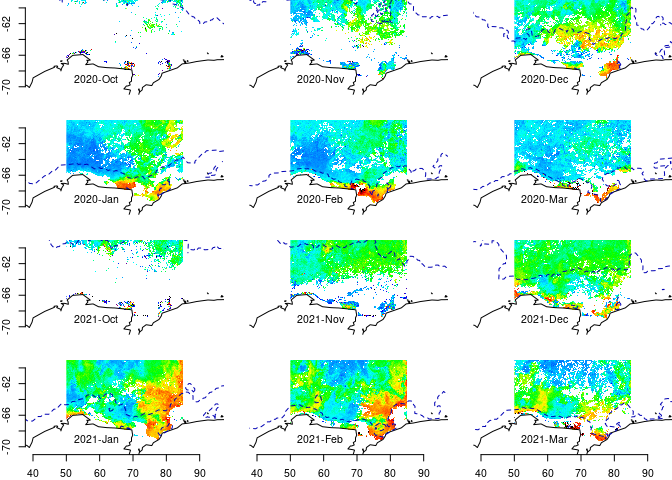
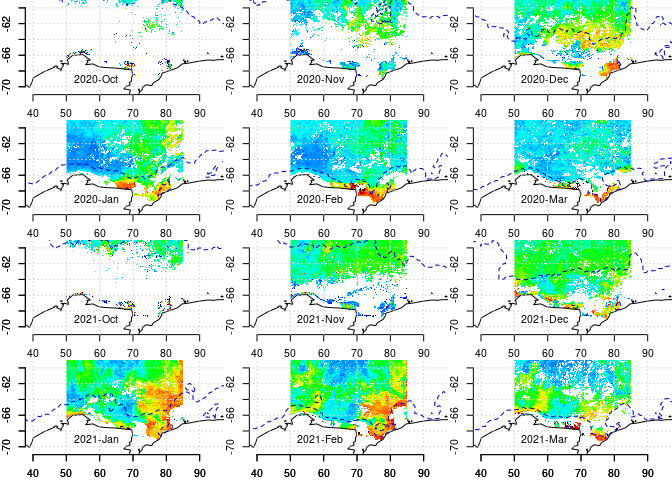
read

diff --git a/README.md b/README.md
@@ -51,18 +51,46 @@ icedata <- memoise::memoize(function(.x) terra::rast(sds::nsidc_seaice(.x)))
 
 pal <- palr::chl_pal(palette = T)
 
+#par(mfrow = n2mfrow(length(dates)), mar = c(2, 2, 0, 0))
+
+for (i in seq_along(dates)) {
+  ice <- icedata(dates[i])
+  cl <- sf::st_as_sf(terra::project(terra::crop(terra::as.contour(ice, levels = 15), terra::ext(0, 5e6, -5e6, 5e6)), "OGC:CRS84"))
+  file <- sprintf("chlor_a_%s.tif", format(dates[i], "%Y-%m"))
+d <- vapour::gdal_raster_data(file)
+  png(gsub("tif$", "png", file), width = 840, height = 840)
+  im <- matrix(palr::image_pal(d[[1]], col = pal$cols, breaks = pal$breaks), attr(d, "dimension")[2], byrow = TRUE)
+  ximage::ximage(im, attr(d, "extent"), asp = 1/cos(mean(ex[3:4]) * pi/180), col = pal$cols, breaks = pal$breaks, axes = F)
+  maps::map(add = TRUE)
+  axis(1)
+  axis(2)
+  grid()
+  plot(cl, add = T, lty = 2)
+  if (i >= 10) axis(1)
+  if (i %in% c(1, 4, 7, 10) ) axis(2)
+  text(59, -69, format(dates[i], "%Y-%b"))
+  dev.off()
+}
+
+
 par(mfrow = n2mfrow(length(dates)), mar = c(2, 2, 0, 0))
 
 for (i in seq_along(dates)) {
   ice <- icedata(dates[i])
   cl <- sf::st_as_sf(terra::project(terra::crop(terra::as.contour(ice, levels = 15), terra::ext(0, 5e6, -5e6, 5e6)), "OGC:CRS84"))
-d <- vapour::gdal_raster_data(sprintf("chlor_a_%s.tif", format(dates[i], "%Y-%m")))
-  ximage::ximage(d, asp = 1/cos(mean(ex[3:4]) * pi/180), col = pal$cols, breaks = pal$breaks, axes = F)
+  file <- sprintf("chlor_a_%s.tif", format(dates[i], "%Y-%m"))
+d <- vapour::gdal_raster_data(file)
+  im <- matrix(palr::image_pal(d[[1]], col = pal$cols, breaks = pal$breaks), attr(d, "dimension")[2], byrow = TRUE)
+  ximage::ximage(im, attr(d, "extent"), asp = 1/cos(mean(ex[3:4]) * pi/180), col = pal$cols, breaks = pal$breaks, axes = F)
   maps::map(add = TRUE)
+  axis(1)
+  axis(2)
+  grid()
   plot(cl, add = T, lty = 2)
   if (i >= 10) axis(1)
   if (i %in% c(1, 4, 7, 10) ) axis(2)
   text(59, -69, format(dates[i], "%Y-%b"))
+  
 }
 ```
 
